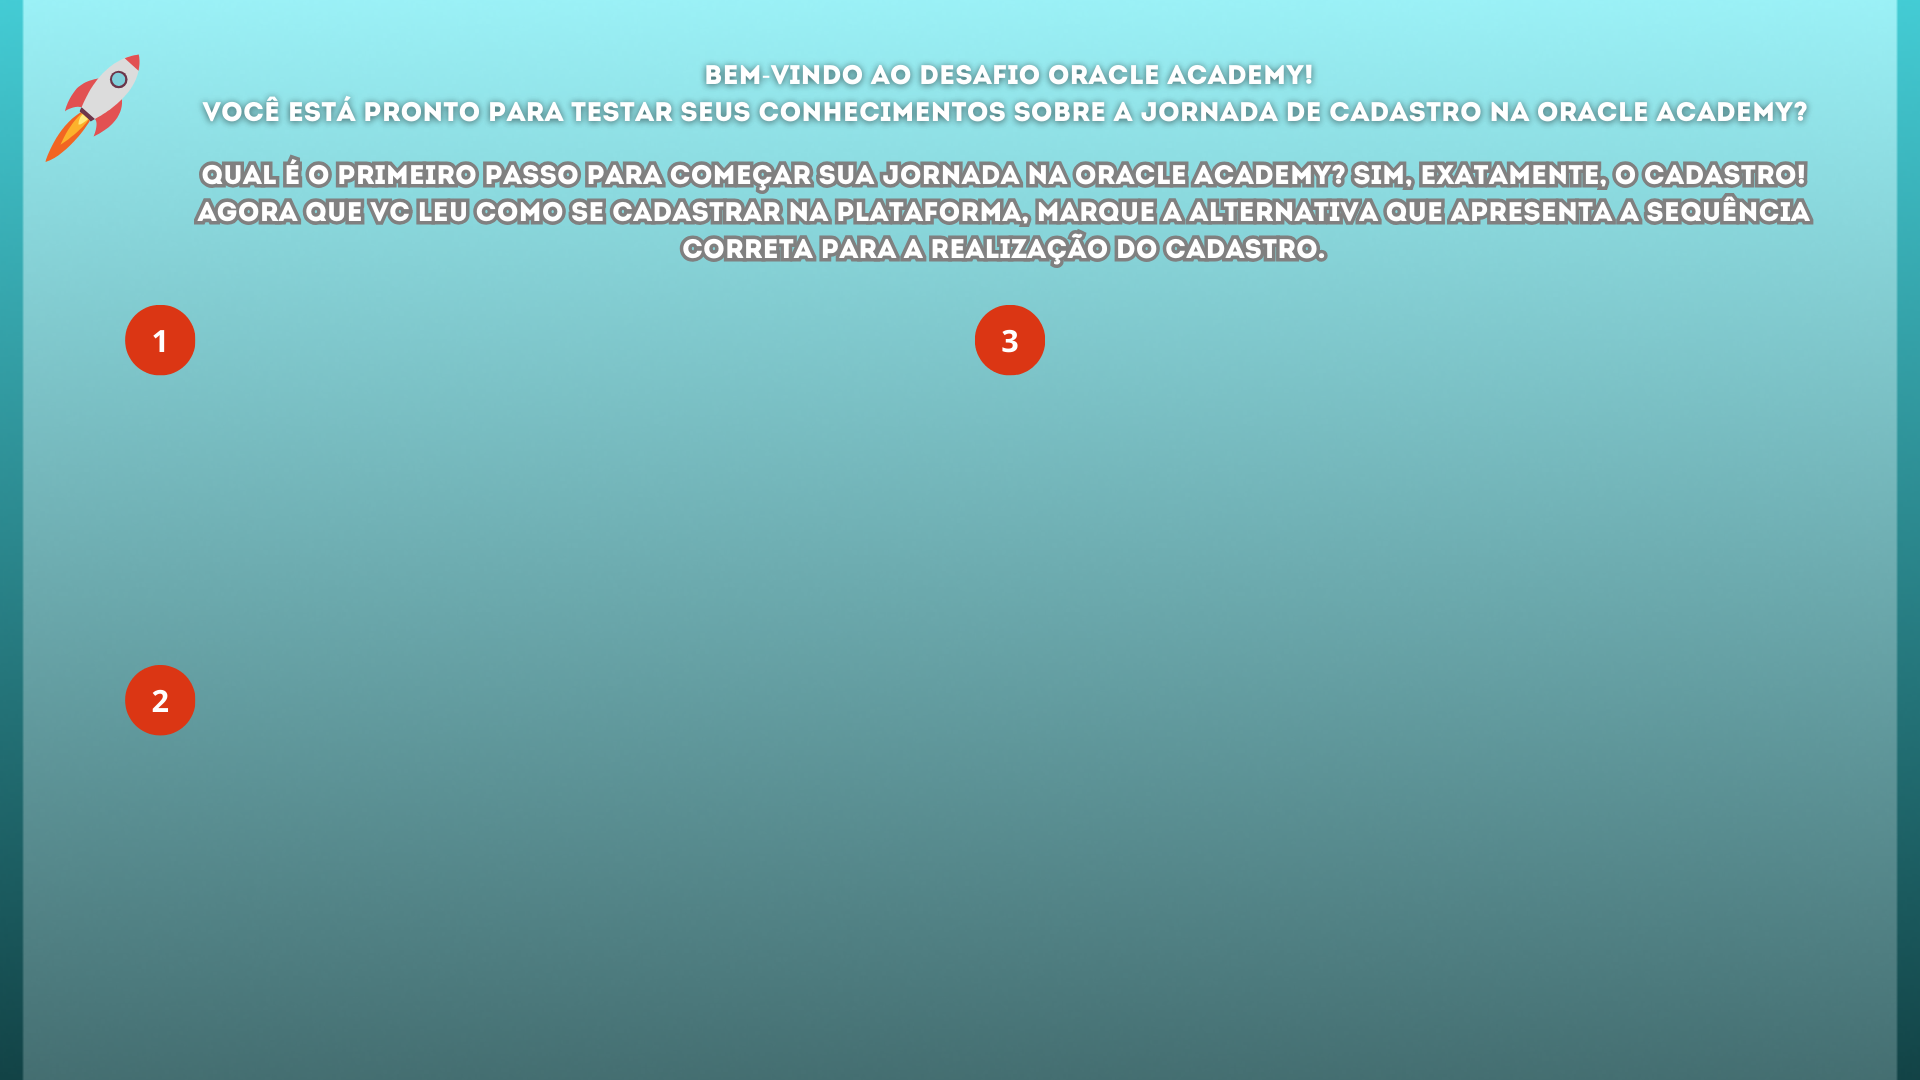
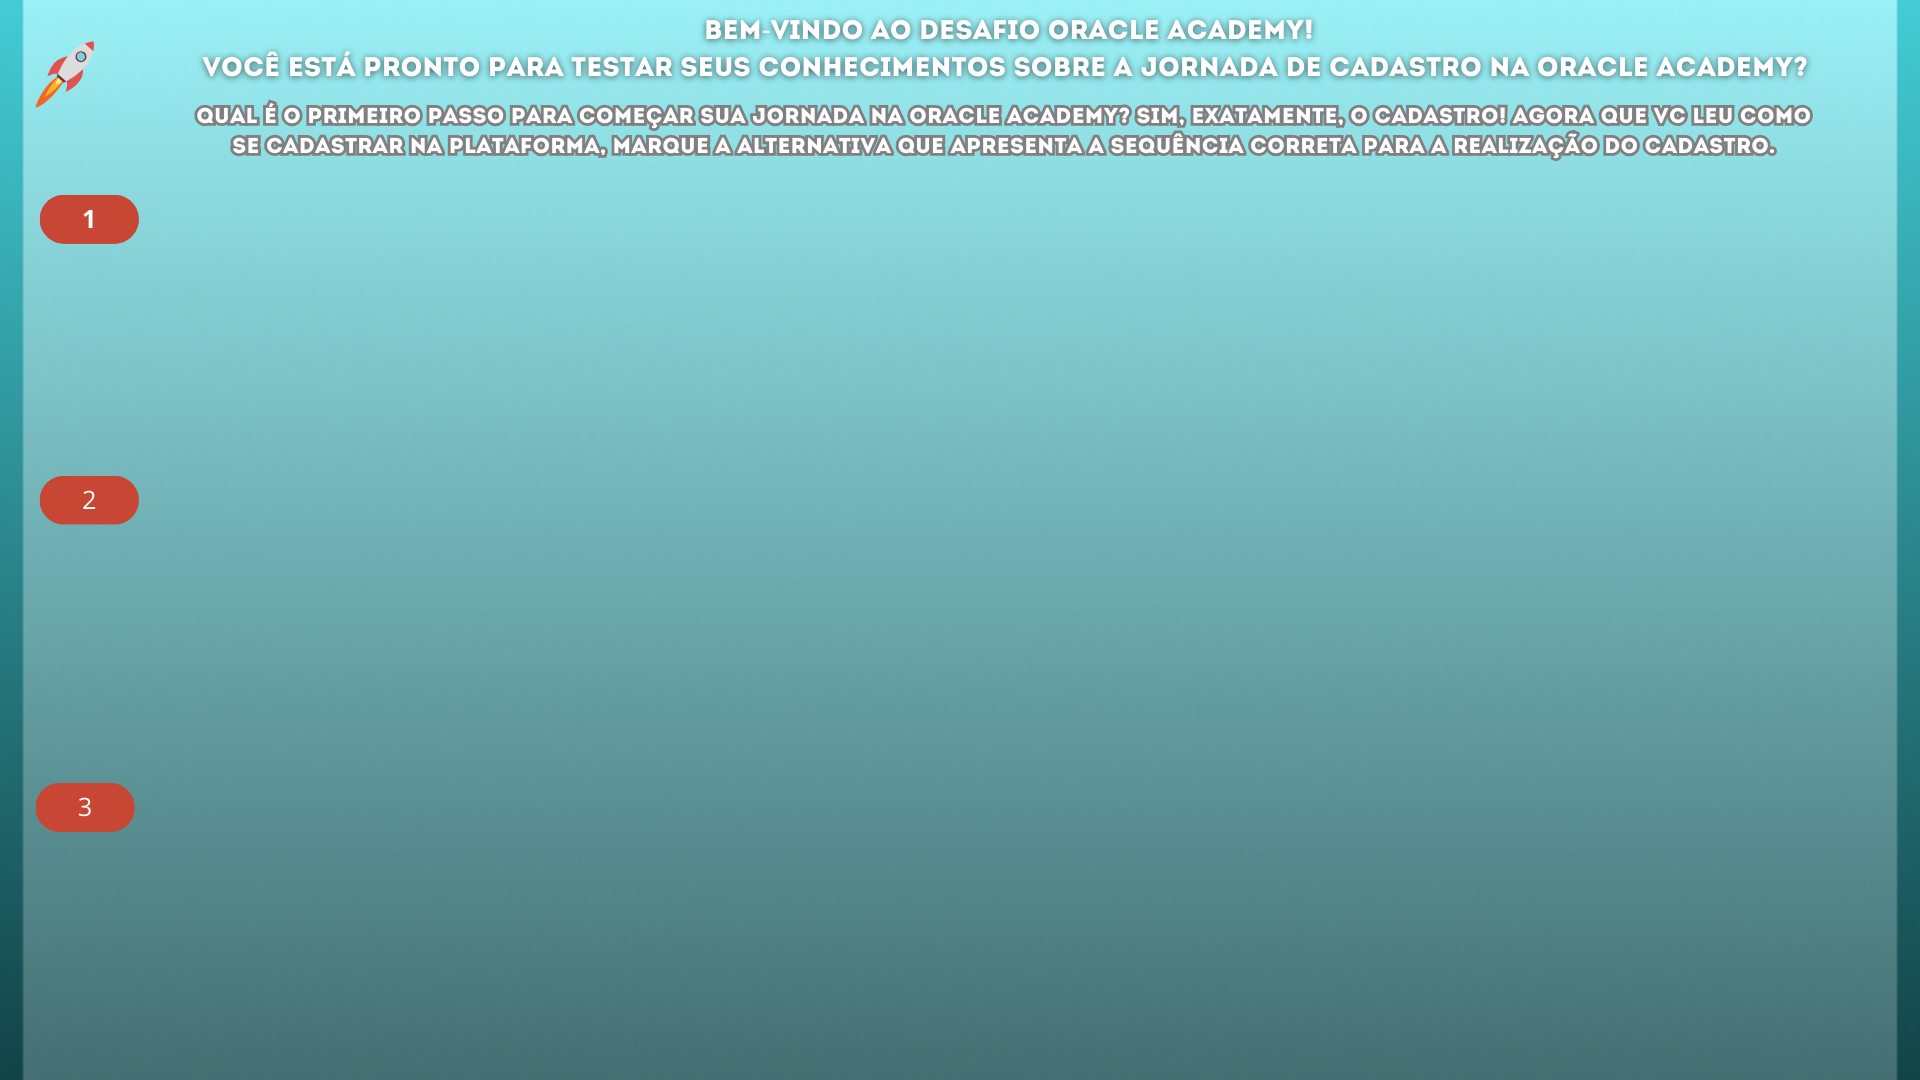
.

diff --git a/src/js/Flashcards/quiz.js b/src/js/Flashcards/quiz.js
@@ -29,6 +29,7 @@ class Quiz extends Phaser.Scene {
     // pré-carregamento das imagens do jogo
     preload() {
         this.load.image('quizBG', 'assets/quizBG.png');
+        this.load.image('server-bg', 'assets/servidorCard.jpg');
         this.load.image('quiz-button1', 'assets/botões/Gameflow1.png');
         this.load.image('quiz-button2', 'assets/botões/Gameflow2.png');
         this.load.image('quiz-button3', 'assets/botões/Gameflow3.png');
@@ -43,12 +44,15 @@ class Quiz extends Phaser.Scene {
     // criação dos elementos da cena
     create() {
         // background com a pergunta 
-        this.add.image(larguraJogo / 2, alturaJogo / 2, 'quizBG');
+        this.add.image(larguraJogo / 2, alturaJogo / 2, 'quizBG').setDepth(1);
+
+        // server borrado
+        this.add.image(larguraJogo / 2, alturaJogo / 2, 'server-bg').setDepth(0);
 
         // cria os botões que contém as alternativas
-        this.quizButton1 = this.add.image(400, 500, 'quiz-button1').setScale(0.5);
-        this.quizButton2 = this.add.image(larguraJogo / 4 - 50, alturaJogo / 6 + 80, 'quiz-button2').setScale(0.5);
-        this.quizButton3 = this.add.image(larguraJogo / 4 + 50, alturaJogo / 6 + 160, 'quiz-button3').setScale(0.5);
+        this.quizButton1 = this.add.image(950, 460, 'quiz-button1').setScale(1.4).setDepth(2);
+        this.quizButton2 = this.add.image(950, 750, 'quiz-button2').setScale(1.4).setDepth(2);
+        this.quizButton3 = this.add.image(950, 1050, 'quiz-button3').setScale(1.4).setDepth(2);
 
         // adiciona interação
         this.quizButton1.setInteractive();
@@ -56,13 +60,13 @@ class Quiz extends Phaser.Scene {
         this.quizButton3.setInteractive();
 
         // adiciona o cursor do mouse
-        this.mouse = this.add.image(larguraJogo / 2 + 80, alturaJogo / 3 + 40, 'mouse').setScale(0.04).setOrigin(0.15, 0.04).setDepth(3);
+        this.mouse = this.add.image(larguraJogo / 2 + 80, alturaJogo / 3 + 40, 'mouse').setScale(0.04).setOrigin(0.15, 0.04).setDepth(5);
         this.input.setDefaultCursor('none');
 
         //adiciona o placar e botão de reset
         this.gameControls.scoreText = this.add.text(larguraJogo / 50, alturaJogo / 50, 'Pontuação: 0', { fontSize: '32px', fill: '#fff' });
-        this.gameControls.resetOverBT = this.add.image(larguraJogo / 2 - 100, alturaJogo / 2 - 100, 'resetOverBT').setScale(.5).setOrigin(0, 0).setInteractive().setVisible(false);
-        this.gameControls.resetWinBT = this.add.image(larguraJogo / 2 - 100, alturaJogo / 2 - 100, 'resetWinBT').setScale(2.0).setOrigin(0, 0).setInteractive().setVisible(false);
+        this.gameControls.resetOverBT = this.add.image(larguraJogo / 2, alturaJogo / 2, 'resetOverBT').setScale(2.0).setInteractive().setVisible(false).setDepth(3);
+        this.gameControls.resetWinBT = this.add.image(larguraJogo / 2, alturaJogo / 2 + 300, 'resetWinBT').setScale(1.7).setInteractive().setVisible(false).setDepth(3);
 
         this.gameControls.resetOverBT.on('pointerdown', function () {
             this.gameControls.over = false;
@@ -118,7 +122,7 @@ class Quiz extends Phaser.Scene {
     // função chamada quando a resposta está errada
     wrongAnswer() {
         this.gameControls.over = true;
-        this.add.image(larguraJogo / 2, alturaJogo / 3, 'gameOver').setScale(.05);
+        //this.add.image(larguraJogo / 2, alturaJogo / 3, 'gameOver').setScale(.05);
         this.gameControls.resetOverBT.visible = true;
 
     }
@@ -127,9 +131,9 @@ class Quiz extends Phaser.Scene {
     rightAnswer() {
         this.gameControls.over = false;
         this.gameControls.win = true;
-        this.add.image(larguraJogo / 2, alturaJogo / 3, 'gameWin').setScale(.25);
+        //this.add.image(larguraJogo / 2, alturaJogo / 3, 'gameWin').setScale(.25);
         this.gameControls.resetWinBT.visible = true;
-        this.nextBT = this.add.image(larguraJogo / 4 + 80, alturaJogo / 3 + 30, 'nextBT').setScale(.5).setOrigin(0, 0).setInteractive().setVisible(true);
+        this.nextBT = this.add.image(larguraJogo / 2, alturaJogo / 2, 'nextBT').setScale(2).setInteractive().setVisible(true).setDepth(3);
         this.nextBT.on('pointerdown', () => this.scene.start('puzzle'));
     }
 }
